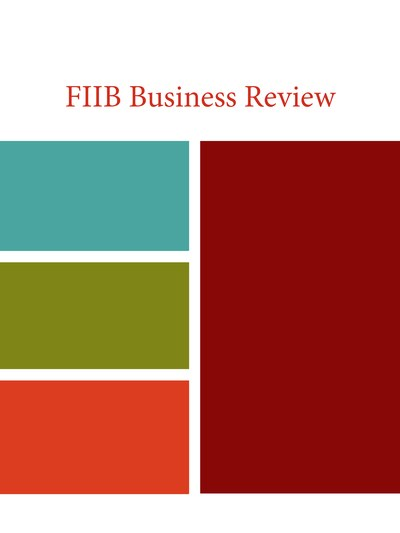
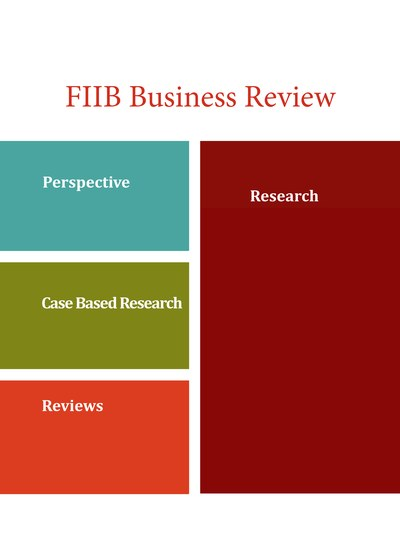
Make the FIIB and IJABF covers legible at thumbnail size
FIIB keeps its section headings — Perspective, Case Based Research, Reviews,
Research — which say what the journal publishes and cost nothing to read.
Only the article lists under them go. Each heading is found as the topmost
run of light text in its block, so the fill starts below it.

IJABF was faithful and useless: a two-line title in script type became a
smear at the 72px the card renders. The card prints the full name beside the
image anyway, so the cover only has to be recognisable — the roundel is what
carries at that size, on the journal's own yellow.

Name the publisher in its badge too. Springer and SAGE are known by name;
the Indian Accounting Association is not, and the reader deserves to see who
stands behind an ABDC-C listing.

diff --git a/src/components/landing/LandingPage.tsx b/src/components/landing/LandingPage.tsx
@@ -275,7 +275,7 @@ const PUBLICATIONS = [
   },
   {
     title: "International Journal of Accounting, Business and Finance",
-    badge: "ABDC-C",
+    badge: "Indian Accounting Association · ABDC-C",
     cover: "/journals/ijabf.jpg",
     url: "https://www.ijabf.in/index.php/IJABF",
     detail:
